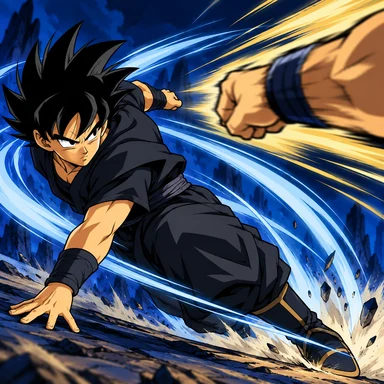
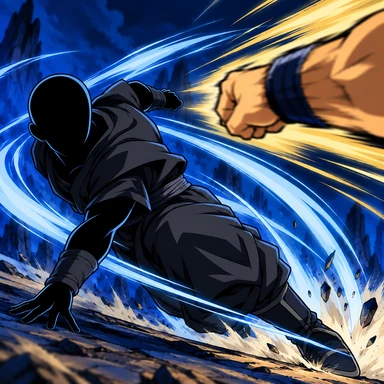
Refine anonymous defensive technique artwork
Replace Bulwark and Deflection with readable physical guard and redirected-shot illustrations; anonymise Evasive and Riposte. Record reusable technique illustration standards. No combat numbers or story progression changed.

diff --git a/index.html b/index.html
@@ -3,17 +3,17 @@
 <meta charset="utf-8"><meta name="viewport" content="width=device-width,initial-scale=1,viewport-fit=cover"><meta name="theme-color" content="#ef7914"><meta name="apple-mobile-web-app-capable" content="yes"><meta name="apple-mobile-web-app-status-bar-style" content="black-translucent">
 <meta name="description" content="A new world. A new you. Zero's Dragon Ball Isekai adventure.">
 <title>Dragon Ball Stories</title>
-<link rel="icon" type="image/svg+xml" href="./dragon-ball.svg?v=d657a83101c42e9611cf9e56"><link rel="apple-touch-icon" href="./icon-180.png?v=d657a83101c42e9611cf9e56"><link rel="manifest" href="./app.webmanifest?v=d657a83101c42e9611cf9e56"><link rel="preload" href="./bangers.ttf?v=d657a83101c42e9611cf9e56" as="font" type="font/ttf" crossorigin><link rel="stylesheet" href="./styles.css?v=d657a83101c42e9611cf9e56"><link rel="stylesheet" href="./world.css?v=d657a83101c42e9611cf9e56"><script src="./updates.js?v=d657a83101c42e9611cf9e56" defer></script><script src="./music.js?v=d657a83101c42e9611cf9e56" defer></script><script src="./app.js?v=d657a83101c42e9611cf9e56" defer></script>
-<link rel="stylesheet" href="./interaction.css?v=d657a83101c42e9611cf9e56"><script src="./interaction.js?v=d657a83101c42e9611cf9e56" defer></script>
-<link rel="stylesheet" href="./collection.css?v=d657a83101c42e9611cf9e56">
-<link rel="stylesheet" href="./content.css?v=d657a83101c42e9611cf9e56">
-<meta name="app-release" content="d657a83101c42e9611cf9e56">
-<script src="./launch.js?v=d657a83101c42e9611cf9e56" defer></script></head><body data-page="overview" class="launch-pending">
+<link rel="icon" type="image/svg+xml" href="./dragon-ball.svg?v=e2182d8f4c63ecb0153295ae"><link rel="apple-touch-icon" href="./icon-180.png?v=e2182d8f4c63ecb0153295ae"><link rel="manifest" href="./app.webmanifest?v=e2182d8f4c63ecb0153295ae"><link rel="preload" href="./bangers.ttf?v=e2182d8f4c63ecb0153295ae" as="font" type="font/ttf" crossorigin><link rel="stylesheet" href="./styles.css?v=e2182d8f4c63ecb0153295ae"><link rel="stylesheet" href="./world.css?v=e2182d8f4c63ecb0153295ae"><script src="./updates.js?v=e2182d8f4c63ecb0153295ae" defer></script><script src="./music.js?v=e2182d8f4c63ecb0153295ae" defer></script><script src="./app.js?v=e2182d8f4c63ecb0153295ae" defer></script>
+<link rel="stylesheet" href="./interaction.css?v=e2182d8f4c63ecb0153295ae"><script src="./interaction.js?v=e2182d8f4c63ecb0153295ae" defer></script>
+<link rel="stylesheet" href="./collection.css?v=e2182d8f4c63ecb0153295ae">
+<link rel="stylesheet" href="./content.css?v=e2182d8f4c63ecb0153295ae">
+<meta name="app-release" content="e2182d8f4c63ecb0153295ae">
+<script src="./launch.js?v=e2182d8f4c63ecb0153295ae" defer></script></head><body data-page="overview" class="launch-pending">
 <dialog id="launch-dialog" class="wish-screen" open aria-labelledby="launch-title"><div class="wish-grain" aria-hidden="true"></div><div class="wish-content"><h1 id="launch-title">DRAGON BALL<span>STORIES</span></h1><button id="launch-adventure" class="wish-trigger" aria-label="Launch your adventure"><svg class="wish-orbit" viewBox="0 0 520 520" aria-hidden="true"><defs><radialGradient id="wish-halo"><stop stop-color="#fffdf0" stop-opacity="1"/><stop offset=".4" stop-color="#fff2a3" stop-opacity=".85"/><stop offset="1" stop-color="#fff2a3" stop-opacity="0"/></radialGradient><radialGradient id="wish-flare"><stop stop-color="#fffef3"/><stop offset=".7" stop-color="#fff4bf"/><stop offset="1" stop-color="#fff4bf" stop-opacity="0"/></radialGradient><radialGradient id="orb" cx="34%" cy="26%" r="76%"><stop stop-color="#fff7b4"/><stop offset=".32" stop-color="#ffcd43"/><stop offset=".72" stop-color="#f58a08"/><stop offset="1" stop-color="#c55005"/></radialGradient></defs><circle class="orbit-guide" cx="260" cy="260" r="179"/><circle class="orbit-guide inner" cx="260" cy="260" r="123"/><g class="wish-ball" style="--ball:0" transform="translate(260.000 81.000)"><g class="ball-flight"><circle class="ball-aura" r="85" fill="url(#wish-halo)"/><circle r="35" fill="url(#orb)" stroke="#7e300d" stroke-width="2"/><g fill="#b72b18"><polygon points="0.00,-5.00 1.26,-1.74 4.76,-1.55 2.04,0.66 2.94,4.05 0.00,2.15 -2.94,4.05 -2.04,0.66 -4.76,-1.55 -1.26,-1.74"/></g><circle class="ball-flare" r="37" fill="url(#wish-flare)"/></g></g><g class="wish-ball" style="--ball:1" transform="translate(399.948 148.395)"><g class="ball-flight"><circle class="ball-aura" r="85" fill="url(#wish-halo)"/><circle r="35" fill="url(#orb)" stroke="#7e300d" stroke-width="2"/><g fill="#b72b18"><polygon points="-8.00,-5.00 -6.74,-1.74 -3.24,-1.55 -5.96,0.66 -5.06,4.05 -8.00,2.15 -10.94,4.05 -10.04,0.66 -12.76,-1.55 -9.26,-1.74"/><polygon points="8.00,-5.00 9.26,-1.74 12.76,-1.55 10.04,0.66 10.94,4.05 8.00,2.15 5.06,4.05 5.96,0.66 3.24,-1.55 6.74,-1.74"/></g><circle class="ball-flare" r="37" fill="url(#wish-flare)"/></g></g><g class="wish-ball" style="--ball:2" transform="translate(434.512 299.831)"><g class="ball-flight"><circle class="ball-aura" r="85" fill="url(#wish-halo)"/><circle r="35" fill="url(#orb)" stroke="#7e300d" stroke-width="2"/><g fill="#b72b18"><polygon points="0.00,-13.00 1.26,-9.74 4.76,-9.55 2.04,-7.34 2.94,-3.95 0.00,-5.85 -2.94,-3.95 -2.04,-7.34 -4.76,-9.55 -1.26,-9.74"/><polygon points="-9.00,2.00 -7.74,5.26 -4.24,5.45 -6.96,7.66 -6.06,11.05 -9.00,9.15 -11.94,11.05 -11.04,7.66 -13.76,5.45 -10.26,5.26"/><polygon points="9.00,2.00 10.26,5.26 13.76,5.45 11.04,7.66 11.94,11.05 9.00,9.15 6.06,11.05 6.96,7.66 4.24,5.45 7.74,5.26"/></g><circle class="ball-flare" r="37" fill="url(#wish-flare)"/></g></g><g class="wish-ball" style="--ball:3" transform="translate(337.665 421.273)"><g class="ball-flight"><circle class="ball-aura" r="85" fill="url(#wish-halo)"/><circle r="35" fill="url(#orb)" stroke="#7e300d" stroke-width="2"/><g fill="#b72b18"><polygon points="-8.00,-13.00 -6.74,-9.74 -3.24,-9.55 -5.96,-7.34 -5.06,-3.95 -8.00,-5.85 -10.94,-3.95 -10.04,-7.34 -12.76,-9.55 -9.26,-9.74"/><polygon points="8.00,-13.00 9.26,-9.74 12.76,-9.55 10.04,-7.34 10.94,-3.95 8.00,-5.85 5.06,-3.95 5.96,-7.34 3.24,-9.55 6.74,-9.74"/><polygon points="-8.00,3.00 -6.74,6.26 -3.24,6.45 -5.96,8.66 -5.06,12.05 -8.00,10.15 -10.94,12.05 -10.04,8.66 -12.76,6.45 -9.26,6.26"/><polygon points="8.00,3.00 9.26,6.26 12.76,6.45 10.04,8.66 10.94,12.05 8.00,10.15 5.06,12.05 5.96,8.66 3.24,6.45 6.74,6.26"/></g><circle class="ball-flare" r="37" fill="url(#wish-flare)"/></g></g><g class="wish-ball" style="--ball:4" transform="translate(182.335 421.273)"><g class="ball-flight"><circle class="ball-aura" r="85" fill="url(#wish-halo)"/><circle r="35" fill="url(#orb)" stroke="#7e300d" stroke-width="2"/><g fill="#b72b18"><polygon points="-10.00,-15.00 -8.74,-11.74 -5.24,-11.55 -7.96,-9.34 -7.06,-5.95 -10.00,-7.85 -12.94,-5.95 -12.04,-9.34 -14.76,-11.55 -11.26,-11.74"/><polygon points="10.00,-15.00 11.26,-11.74 14.76,-11.55 12.04,-9.34 12.94,-5.95 10.00,-7.85 7.06,-5.95 7.96,-9.34 5.24,-11.55 8.74,-11.74"/><polygon points="0.00,-5.00 1.26,-1.74 4.76,-1.55 2.04,0.66 2.94,4.05 0.00,2.15 -2.94,4.05 -2.04,0.66 -4.76,-1.55 -1.26,-1.74"/><polygon points="-10.00,5.00 -8.74,8.26 -5.24,8.45 -7.96,10.66 -7.06,14.05 -10.00,12.15 -12.94,14.05 -12.04,10.66 -14.76,8.45 -11.26,8.26"/><polygon points="10.00,5.00 11.26,8.26 14.76,8.45 12.04,10.66 12.94,14.05 10.00,12.15 7.06,14.05 7.96,10.66 5.24,8.45 8.74,8.26"/></g><circle class="ball-flare" r="37" fill="url(#wish-flare)"/></g></g><g class="wish-ball" style="--ball:5" transform="translate(85.488 299.831)"><g class="ball-flight"><circle class="ball-aura" r="85" fill="url(#wish-halo)"/><circle r="35" fill="url(#orb)" stroke="#7e300d" stroke-width="2"/><g fill="#b72b18"><polygon points="-10.00,-16.00 -8.74,-12.74 -5.24,-12.55 -7.96,-10.34 -7.06,-6.95 -10.00,-8.85 -12.94,-6.95 -12.04,-10.34 -14.76,-12.55 -11.26,-12.74"/><polygon points="10.00,-16.00 11.26,-12.74 14.76,-12.55 12.04,-10.34 12.94,-6.95 10.00,-8.85 7.06,-6.95 7.96,-10.34 5.24,-12.55 8.74,-12.74"/><polygon points="-10.00,-5.00 -8.74,-1.74 -5.24,-1.55 -7.96,0.66 -7.06,4.05 -10.00,2.15 -12.94,4.05 -12.04,0.66 -14.76,-1.55 -11.26,-1.74"/><polygon points="10.00,-5.00 11.26,-1.74 14.76,-1.55 12.04,0.66 12.94,4.05 10.00,2.15 7.06,4.05 7.96,0.66 5.24,-1.55 8.74,-1.74"/><polygon points="-10.00,6.00 -8.74,9.26 -5.24,9.45 -7.96,11.66 -7.06,15.05 -10.00,13.15 -12.94,15.05 -12.04,11.66 -14.76,9.45 -11.26,9.26"/><polygon points="10.00,6.00 11.26,9.26 14.76,9.45 12.04,11.66 12.94,15.05 10.00,13.15 7.06,15.05 7.96,11.66 5.24,9.45 8.74,9.26"/></g><circle class="ball-flare" r="37" fill="url(#wish-flare)"/></g></g><g class="wish-ball" style="--ball:6" transform="translate(120.052 148.395)"><g class="ball-flight"><circle class="ball-aura" r="85" fill="url(#wish-halo)"/><circle r="35" fill="url(#orb)" stroke="#7e300d" stroke-width="2"/><g fill="#b72b18"><polygon points="0.00,-5.00 1.26,-1.74 4.76,-1.55 2.04,0.66 2.94,4.05 0.00,2.15 -2.94,4.05 -2.04,0.66 -4.76,-1.55 -1.26,-1.74"/><polygon points="16.00,-5.00 17.26,-1.74 20.76,-1.55 18.04,0.66 18.94,4.05 16.00,2.15 13.06,4.05 13.96,0.66 11.24,-1.55 14.74,-1.74"/><polygon points="8.00,8.86 9.26,12.12 12.76,12.31 10.04,14.52 10.94,17.90 8.00,16.01 5.06,17.90 5.96,14.52 3.24,12.31 6.74,12.12"/><polygon points="-8.00,8.86 -6.74,12.12 -3.24,12.31 -5.96,14.52 -5.06,17.90 -8.00,16.01 -10.94,17.90 -10.04,14.52 -12.76,12.31 -9.26,12.12"/><polygon points="-16.00,-5.00 -14.74,-1.74 -11.24,-1.55 -13.96,0.66 -13.06,4.05 -16.00,2.15 -18.94,4.05 -18.04,0.66 -20.76,-1.55 -17.26,-1.74"/><polygon points="-8.00,-18.86 -6.74,-15.60 -3.24,-15.40 -5.96,-13.19 -5.06,-9.81 -8.00,-11.71 -10.94,-9.81 -10.04,-13.19 -12.76,-15.40 -9.26,-15.60"/><polygon points="8.00,-18.86 9.26,-15.60 12.76,-15.40 10.04,-13.19 10.94,-9.81 8.00,-11.71 5.06,-9.81 5.96,-13.19 3.24,-15.40 6.74,-15.60"/></g><circle class="ball-flare" r="37" fill="url(#wish-flare)"/></g></g></svg><span class="wish-center"><span class="wish-mark"><span class="wish-touch-glow" aria-hidden="true"></span><span class="wish-glyph">願</span></span><span class="wish-invite">TAP TO BEGIN</span></span></button></div></dialog>
 
 <div class="scene" aria-hidden="true"></div><div class="scene-shade" aria-hidden="true"></div><div class="motes" aria-hidden="true"><i></i><i></i><i></i><i></i><i></i></div>
 <a class="skip-link" href="#main">Skip to content</a>
-<header class="game-header"><a class="brand" href="#overview" aria-label="Dragon Ball Stories home"><img src="./dragon-ball.svg?v=d657a83101c42e9611cf9e56" width="34" height="34" alt=""><span>DB <b>STORIES</b></span></a><nav id="navigation" aria-label="Main navigation"></nav><div class="header-tools"><button class="hud-button" data-search aria-label="Search your adventure"><svg viewBox="0 0 24 24" aria-hidden="true"><circle cx="10" cy="10" r="6"/><path d="m15 15 5 5"/></svg></button><span class="player-chip"><strong class="user-chip">Zero</strong></span></div></header>
+<header class="game-header"><a class="brand" href="#overview" aria-label="Dragon Ball Stories home"><img src="./dragon-ball.svg?v=e2182d8f4c63ecb0153295ae" width="34" height="34" alt=""><span>DB <b>STORIES</b></span></a><nav id="navigation" aria-label="Main navigation"></nav><div class="header-tools"><button class="hud-button" data-search aria-label="Search your adventure"><svg viewBox="0 0 24 24" aria-hidden="true"><circle cx="10" cy="10" r="6"/><path d="m15 15 5 5"/></svg></button><span class="player-chip"><strong class="user-chip">Zero</strong></span></div></header>
 <main id="main" tabindex="-1"><div class="loading" role="status">Your adventure is loading…</div></main>
 <footer class="game-footer"><div class="control-hints"><span><kbd>↑ ↓</kbd> Navigate</span><span><kbd>Enter</kbd> Select</span><span><kbd>Esc</kbd> Main Menu</span></div><span id="campaign-status">Loading story records…</span><div class="preferences"><button id="music-toggle" aria-pressed="true">Music on</button><button id="sound-toggle" aria-pressed="true">Sound on</button><button id="motion-toggle" aria-pressed="false">Motion on</button><button data-about>About</button></div></footer>
 <div id="update-notice" class="update-notice" role="status" aria-live="polite" hidden></div>

diff --git a/styles.css b/styles.css
@@ -1,6 +1,6 @@
-@font-face{font-family:Bangers;src:url('./bangers.ttf?v=d657a83101c42e9611cf9e56') format('truetype');font-display:swap}
+@font-face{font-family:Bangers;src:url('./bangers.ttf?v=e2182d8f4c63ecb0153295ae') format('truetype');font-display:swap}
 :root{--ink:#11343d;--paper:#fff9e9;--yellow:#ffdd47;--orange:#ffa21c;--muted:#557568;font:15px 'Segoe UI',Arial,sans-serif;color:var(--ink);color-scheme:light}*{box-sizing:border-box;-webkit-tap-highlight-color:transparent}body{margin:0;min-width:300px;background:#153b43;isolation:isolate}button,input,textarea{font:inherit}button,a,summary{touch-action:manipulation}button{cursor:pointer;color:inherit}a{color:inherit;text-decoration:none}h1,h2,h3,p{margin:0}h1,h2,.brand,.menu-title,.stage-name{font-family:Bangers,'Arial Black',sans-serif;font-weight:400;letter-spacing:1px}p{line-height:1.65}em{font-style:normal}svg{width:24px;height:24px;fill:none;stroke:currentColor;stroke-width:1.8;stroke-linecap:round;stroke-linejoin:round;flex-shrink:0}img{max-width:100%}button:focus-visible,a:focus-visible,input:focus-visible,summary:focus-visible,textarea:focus-visible{outline:3px solid #16c7d2;outline-offset:5px}[hidden]{display:none!important}.sr-only{position:absolute;width:1px;height:1px;overflow:hidden;clip:rect(0,0,0,0)}.skip-link{position:fixed;left:15px;top:-80px;z-index:100;background:var(--yellow);padding:15px}.skip-link:focus{top:15px}
-.scene,.scene-shade,.motes{position:fixed;inset:0;pointer-events:none}.scene{z-index:-3;background:url('./menu-world.webp?v=d657a83101c42e9611cf9e56') center/cover no-repeat;animation:drift 30s ease-in-out infinite alternate;transform:scale(1.025)}.scene-shade{z-index:-2;background:linear-gradient(90deg,#05242e80,transparent 54%),linear-gradient(0deg,#06232eef,transparent 65%)}body:not([data-page=overview]) .scene-shade{background:linear-gradient(110deg,#03202de6,#093e43bd)}.motes{z-index:-1;overflow:hidden}.motes i{position:absolute;width:5px;height:5px;left:20%;top:100%;border-radius:50%;background:#fff7a3;box-shadow:0 0 18px #ffffa4;animation:float-up 16s linear infinite}.motes i:nth-child(2){left:65%;animation-delay:-4s}.motes i:nth-child(3){left:43%;animation-delay:-11s}.motes i:nth-child(4){left:84%;animation-delay:-7s}.motes i:nth-child(5){left:9%;animation-delay:-14s}
+.scene,.scene-shade,.motes{position:fixed;inset:0;pointer-events:none}.scene{z-index:-3;background:url('./menu-world.webp?v=e2182d8f4c63ecb0153295ae') center/cover no-repeat;animation:drift 30s ease-in-out infinite alternate;transform:scale(1.025)}.scene-shade{z-index:-2;background:linear-gradient(90deg,#05242e80,transparent 54%),linear-gradient(0deg,#06232eef,transparent 65%)}body:not([data-page=overview]) .scene-shade{background:linear-gradient(110deg,#03202de6,#093e43bd)}.motes{z-index:-1;overflow:hidden}.motes i{position:absolute;width:5px;height:5px;left:20%;top:100%;border-radius:50%;background:#fff7a3;box-shadow:0 0 18px #ffffa4;animation:float-up 16s linear infinite}.motes i:nth-child(2){left:65%;animation-delay:-4s}.motes i:nth-child(3){left:43%;animation-delay:-11s}.motes i:nth-child(4){left:84%;animation-delay:-7s}.motes i:nth-child(5){left:9%;animation-delay:-14s}
 .game-header{min-height:78px;padding:16px 38px;display:flex;align-items:center;gap:28px;color:white;border-bottom:1px solid #ffffff24;background:linear-gradient(#06334270,#083b4910);position:relative;z-index:2}.brand{display:flex;align-items:center;gap:10px;white-space:nowrap;font-size:24px;transform:rotate(-2deg)}.brand b{font-weight:400;color:var(--yellow)}.brand img{filter:drop-shadow(2px 3px 0 #123e43)}.header-tools{margin-left:auto;display:flex;align-items:center;gap:24px}.hud-button{display:grid;place-items:center;border:1px solid #ffffff55;border-radius:50%;background:#113b456b;color:white;width:40px;height:40px}.hud-button:hover{color:var(--ink);background:var(--yellow)}.player-chip{display:grid;line-height:1.2;border-left:2px solid var(--orange);padding-left:12px;min-width:74px}.player-chip>span{font-size:9px;letter-spacing:2px;color:#d4edf0}.player-chip strong{font-size:19px;overflow-wrap:anywhere}#navigation{display:flex;gap:5px;align-items:center}.nav-link{display:flex;gap:7px;align-items:center;padding:10px 13px;font-size:12px;font-weight:750;transition:transform .15s,background .15s}.nav-link svg{width:17px;height:17px}.nav-link:hover,.nav-link[aria-current]{background:var(--yellow);color:var(--ink);transform:skew(-5deg)}body[data-page=overview] #navigation{display:none}body[data-page=overview] .brand{font-size:20px;opacity:.8}
 #main{max-width:1440px;margin:auto;min-height:calc(100svh - 132px);padding:32px 54px 40px;outline:0}body[data-page=overview] #main{padding:0;max-width:none}.title-screen{min-height:calc(100svh - 132px);display:grid;grid-template-columns:440px 1fr;padding:28px 6vw 48px;gap:60px;position:relative}.menu-column{position:relative;z-index:1}.title-logo{transform:rotate(-3deg);margin:5px 0 34px 12px;width:max-content;max-width:100%}.logo-kicker{display:block;font-size:10px;font-weight:800;letter-spacing:5px;color:white;margin:0 0 8px 8px;text-shadow:0 1px 3px #12303c}.title-logo h1{line-height:.91;filter:drop-shadow(3px 5px 0 #0b2e36)}.title-logo h1>span{display:block;font-size:clamp(46px,4.6vw,72px);color:var(--yellow);-webkit-text-stroke:1px #63331c;paint-order:stroke fill}.title-logo em{color:#ff961a}.title-logo h1 strong{display:block;font-size:clamp(79px,7.9vw,120px);font-weight:400;letter-spacing:10px;color:white;-webkit-text-stroke:1px #123d46;paint-order:stroke fill}.logo-rule{display:block;background:var(--yellow);padding:5px 10px;margin:9px 0 0 3px;font-size:9px;font-weight:900;letter-spacing:3px;box-shadow:3px 3px 0 #12343c;transform:skew(-8deg)}.game-menu{display:flex;flex-direction:column;gap:13px;max-width:360px}.menu-choice{position:relative;display:flex;align-items:center;gap:14px;padding:8px 24px 9px 16px;min-height:59px;color:white;isolation:isolate;transition:transform .17s,color .17s;outline-offset:8px!important}.menu-choice:before{content:'';position:absolute;inset:0;z-index:-1;background:#10353bed;transform:skew(-10deg);border:1px solid #c8ebdf61;border-left:5px solid #78dacc;box-shadow:5px 6px 0 #001b283a;transition:background .15s}.menu-title{font-size:31px;letter-spacing:1.5px}.menu-number{font-size:10px;font-weight:800;align-self:flex-start;padding-top:5px;opacity:.6}.menu-choice svg{width:22px;height:22px}.menu-arrow{margin-left:auto;font-size:37px;line-height:1}.menu-description{position:absolute;left:58px;top:44px;font-size:10px;font-weight:750;opacity:1;white-space:nowrap}.menu-choice:active{transform:scale(.99)}
 .home-feature{align-self:end;justify-self:end;max-width:480px;color:white;margin-bottom:35px;text-shadow:0 3px 10px #173d42}.chapter-tag{display:inline-block;font-size:10px;font-weight:900;letter-spacing:2px;padding:8px 12px;background:var(--ink);color:var(--yellow);border-left:4px solid var(--orange);text-shadow:none;transform:skew(-6deg)}.home-feature h2{font-size:clamp(48px,5.4vw,78px);line-height:.98;margin:18px 0 14px;transform:rotate(-2deg);text-shadow:3px 4px 0 #12434a,0 4px 30px #073e41}.home-feature h2 em{color:var(--yellow)}.home-feature p{font-size:16px;max-width:380px;font-weight:600;margin-bottom:23px}.primary{display:inline-flex;align-items:center;justify-content:center;gap:22px;background:linear-gradient(110deg,#ffb21e,#ffe064);border:0;border-bottom:4px solid #c4780c;padding:15px 24px;font-size:13px;font-weight:850;box-shadow:4px 4px 0 #112f3945;color:var(--ink);text-shadow:none;max-width:100%;transition:transform .15s,filter .15s}.primary:hover{transform:translateY(-3px);filter:brightness(1.08)}.primary:active{transform:translateY(1px);box-shadow:none}.primary svg{width:19px;height:19px}.launch-button{transform:skew(-5deg)}.launch-button:hover{transform:skew(-5deg) translateY(-3px)}.scene-caption{position:absolute;bottom:16px;right:6vw;font-size:8px;letter-spacing:1.5px;color:#cae5d7b8}.game-footer{min-height:54px;display:flex;align-items:center;gap:20px;justify-content:space-between;padding:13px 38px;background:#082b34e8;color:#deeee6;border-top:1px solid #88cec447;font-size:10px}.control-hints{display:flex;gap:20px}.control-hints span{display:flex;gap:7px;align-items:center}kbd{font:inherit;font-weight:800;border:1px solid #a9c9c580;min-width:23px;text-align:center;padding:3px 5px;box-shadow:0 2px 0 #0004}.preferences{display:flex;gap:15px}.preferences button{font-size:10px;padding:6px 0;color:inherit;background:none;border:0;border-bottom:1px solid transparent}.preferences button:hover,.preferences button[aria-pressed=true]{color:var(--yellow);border-bottom-color:currentColor}#campaign-status{font-size:9px;text-transform:uppercase;letter-spacing:1.5px;color:#d0e8dc}

diff --git a/APP-CONTENT-STANDARD.md b/APP-CONTENT-STANDARD.md
@@ -92,6 +92,8 @@ S240 combat reference: `combat-reference.json` is the reviewed public rules proj
 
 `history` contains stable event IDs, not copied journal entries. `trainingRecord` preserves unique older observations in a collapsed dated record; it is historical, not a second current status. Update current fields when capability changes. Append a dated observation or link a new event; do not silently rewrite the old record as if it had always used the latest base.
 
+**Reusable technique illustration contract:** all technique art uses anonymous figures with identifying facial details fully shadowed or omitted, including eyes, distinctive facial lines and recognisable character-specific hair silhouettes. This is reusable technique art, not Goku or another named fighter. Evasive shows a readable evasion; Riposte a clear immediate physical reply. Bulwark shows an actual braced limb/body guard receiving a strike, without an energy shield. Deflection shows one incoming attack changing direction at the visible contact point, with coherent incoming/outgoing paths; no return-to-origin counter masquerading as parry. Inspect both full-size originals and small app icons. Preserve superseded originals privately, not as alternate current assets.
+
 Artwork: `artwork`, `artworkAlt`, local manifest-listed asset. A technique-progress record may supply its reviewed technique-specific artwork override; both list and dialog use the shared techniqueArt resolver, falling back to campaign artwork if the optional progress file is unavailable. Kiai and Second Wind have distinct symbolic icons, not portraits or new forms. Cel-shaded illustration, clear silhouette, no baked-in labels or frames. Symbolic fundamentals are not character portraits or evidence of a new power. Spirit Bomb depicts a sphere above raised hands; Spirit Spear depicts spirit energy gathering into the hand and spreading over the front of the palm and fingers for contact release; the skin remains visible rather than the whole hand glowing, not a floating orb or literal spear. Preserve originals privately and publish optimised, metadata-free copies.
 
 ## World
